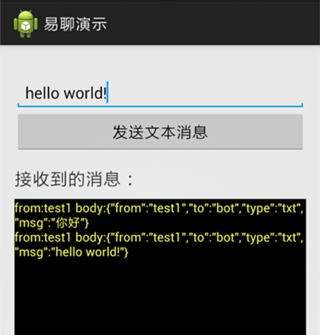
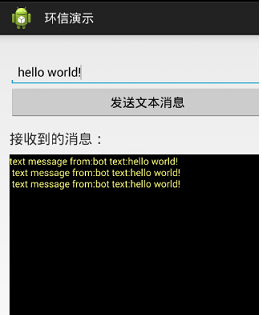
update

diff --git a/docs/emchat/android/quickstart.md b/docs/emchat/android/quickstart.md
@@ -38,26 +38,14 @@ layout: docs
 
  ![alt text](demo.png "demo")
 
-###2.2 UI demo，此demo比较复杂，包含了一个接近微信的完整的聊天app的所有功能,包括发文字，表情，图片，语音，位置，群聊，登录，注册，退出登录等。
-2.2.1 在手机上安装chatdemo-ui.apk(apk位于androidsdk/examples/ChatDemoUI根目录下)，安装成功后，运行此app，注册账号。
 
-2.2.2 登陆之后，进入通讯录点击右上角的加号，添加好友成功后，就可以互发消息了。
+##3.快速集成(Android) 导入demo源代码到eclipse查看运行demo
 
- ![alt text](contact_add.png "demo") ![alt text](chat.png "demo")
-	
-###2.3 导入demo源代码到eclipse查看运行demo
-2.3.1 从examples目录下导入相应demo到eclipse，把libs文件下easemobchat_2.0.0.jar和3rdpartylibs文件夹下httpmime-4.2.jar拷贝到demo的libs底下
+### 从examples目录下导入相应ChatDemoNonUI到eclipse，把libs文件下easemobchat_2.0.0.jar拷贝到ChatDemoNonUI的libs底下。###
 
- ![alt text](demo_dirs.jpg "demo") ![alt text](demos_jar.jpg "demo")
+![alt text](demo_dirs.jpg "demo") ![alt text](demos_nonui_jar.jpg "demo")
 
-
-## 3.快速集成(Android) ##
-
-### 3.1 把libs文件夹下easemobchat_2.0.0.jar和3rdpartylibs文件夹下httpmime-4.2.jar拷贝到你的项目的libs文件夹底下。###
-
- ![](http://i.imgur.com/NrMwsez.jpg)
-
-### 3.2. 在清单文件AndroidManifest.xml里加入以下权限，以及写上你注册的appkey
+### 3.1. 在清单文件AndroidManifest.xml里加入以下权限，以及写上你注册的appkey
 
 		<uses-permission android:name="android.permission.VIBRATE" />
 	    <uses-permission android:name="android.permission.INTERNET" />
@@ -77,7 +65,7 @@ layout: docs
 ### 4.1 在Eclipse/IDEA中创建环信demo project 
 
 
-1. Eclipse IDE： 打开菜单“ File - New - Project“，选择”Android Project from Existing Code”， 选择解压后的"androidsdk/examples"目录下的chatdemo-nonui路径,点击“Finish”。
+1. Eclipse IDE： 打开菜单“ File - New - Project“，选择”Android Project from Existing Code”， 选择解压后的"androidsdk/examples"目录下的ChatDemoNonUI路径,点击“Finish”。
 
 ![alt text](guide1.png "demo")
 
@@ -202,19 +190,30 @@ layout: docs
         public void onReceive(Context context, Intent intent) {
             //消息id
             String msgId = intent.getStringExtra("msgid");
-            //消息发送方
-            String msgFrom = intent.getStringExtra("from");
-            //消息类型
-            int msgType = intent.getIntExtra("type", 0);
-            //消息内容
-            String msgBody = intent.getStringExtra("body");
             
-            //更方便的方法是通过msgId直接获取整个message
+            //从SDK 根据消息ID 可以获得消息对象
             EMMessage message = EMChatManager.getInstance().getMessage(msgId);
 
-            Log.d("chatdemo", "new message id:" + msgId + " from:" + msgFrom + " type:" + msgType + " body:" + msgBody);
-            
-            tvReceivedMsg.append("from:" + msgFrom + " body:" + msgBody + " \r");
+          Log.d("main","new message id:" + msgId + " from:" + message.getFrom() + " type:" + message.getType() + " body:" + message.getBody());
+			switch (message.getType()) {
+			case TXT:
+				TextMessageBody txtBody = (TextMessageBody) message.getBody();
+				tvReceivedMsg.append("text message from:" + message.getFrom() + " text:" + txtBody.getMessage() + " \n\r");
+				break;
+			case IMAGE:
+				ImageMessageBody imgBody = (ImageMessageBody) message.getBody();
+				tvReceivedMsg.append("img message from:" + message.getFrom() + " thumbnail:" + imgBody.getThumbnailUrl() + " remoteurl:"
+						+ imgBody.getRemoteUrl() + " \n\r");
+				break;
+			case VOICE:
+				VoiceMessageBody voiceBody = (VoiceMessageBody) message.getBody();
+				tvReceivedMsg.append("voice message from:" + message.getFrom() + " length:" + voiceBody.getLength() + " remoteurl:"
+						+ voiceBody.getRemoteUrl() + " \n\r");
+				break;
+			case LOCATION:
+				LocationMessageBody locationBody = (LocationMessageBody) message.getBody();
+				tvReceivedMsg.append("location message from:" + message.getFrom() + " address:" + locationBody.getAddress() + " \n\r");
+				break;
         }
     }
 
@@ -228,7 +227,7 @@ layout: docs
         EMChatManager.getInstance().logout();
     }
 
-# 5. 环信demo源代码git地址
+## 5. 环信demo源代码git地址
 
  
 环信提供了一系列demo以帮助开发者更好的学习了解环信SDK。所有demo均已在github上开源供开发者下载使用。你可以clone这些项目来学习了解环信SDK，也可以在这些demo基础上快速创建你自己的真正项目。环信SDK（Android版）在github的下载地址是：
@@ -236,7 +235,7 @@ layout: docs
 [https://github.com/easemob/sdkexamples-android](https://github.com/easemob/sdkexamples-android)
 
 
-# 6. Bug报告跟踪 #
+## 6. Bug报告跟踪 #
 
 请使用以下地址来报告跟踪bug：
 

diff --git a/index.md b/index.md
@@ -11,7 +11,8 @@ layout: docs
 
 * [Android]()
  
-	* [5分钟快速入门](#{site.base_url}/docs/emchat/android/quickstart.html)
+	* [5分钟快速入门无UIDemo](#{site.base_url}/docs/emchat/android/quickstart.html)
+	* [5分钟快速入门有UIDemo](#{site.base_url}/docs/emchat/android/quickstartUI.html)
 	* [单聊](#{site.base_url}/docs/emchat/android/singlechat.html)
 		* [初始化](#{site.base_url}/docs/emchat/android/singlechat.html)
 		* [登录鉴权](#{site.base_url}/docs/emchat/android/singlechat.html)
